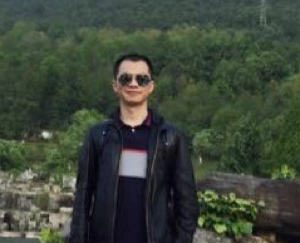
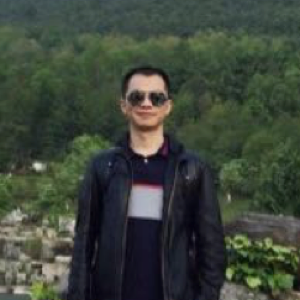
add png

diff --git a/m_index.html b/m_index.html
@@ -200,7 +200,7 @@
         <div class="sixteen columns row teasers fromblog">
         
             <div class="service service-style-2 text-center">
-                <div class="service-thumb">
+                <div class="service-thumb" style="border-radius: 50%">
                     <img src="imgs/zhangb2.png" alt="portfolio thumb">
                 </div>
                 <div class="service-content">
@@ -212,8 +212,8 @@
             </div>
             </br>
             <div class="service service-style-2 text-center">
-                <div class="service-thumb">
-                    <img src="imgs/songbs.png" alt="portfolio thumb">
+                <div class="service-thumb" style="border-radius: 50%">
+                    <img src="imgs/songb2.png" alt="portfolio thumb">
                 </div>
                 <div class="service-content">
                     <div class="service-content-inner text-center">
@@ -225,13 +225,52 @@
             </div>
             </br>
             <div class="service service-style-2 text-center">
-                <div class="service-thumb">
+                <div class="service-thumb" style="border-radius: 50%">
                     <img src="imgs/zhulin.png" alt="portfolio thumb">
                 </div>
                 <div class="service-content">
                     <div class="service-content-inner text-center">
                         <h6>祝琳帆</h6>
                         <p>10年企业应用开发经验，具有超20人大型团队管理经验，前金丘区块链核心人员。参与和主导研发医疗HIS系统，社区医疗集成平台， 及某大型国有银行支付系统等，进入区块链行业3年，从事区块链技术研发2年，对于智能合约与钱包有独到的见解</p>
+                    </div>
+                </div>
+            </div>
+            </br>
+            <div class="service service-style-2 text-center">
+                <div class="service-thumb" style="border-radius: 50%">
+                    <img src="imgs/yuezheng.png" alt="portfolio thumb">
+                </div>
+                <div class="service-content">
+                    <div class="service-content-inner text-center">
+                        <h6>Yue Zheng</h6>
+                        <p>区块链专家，十年以上的系统研发经验，多年大型数字货币交易系统架构设计经验。
+              尤其对大数据，高并发的系统研发，主导CSTK区块的设计，PMP认证项目管理专家</p>
+                    </div>
+                </div>
+            </div>
+
+            </br>
+            <div class="service service-style-2 text-center">
+                <div class="service-thumb" style="border-radius: 50%">
+                    <img src="imgs/hutouchui2.png" alt="portfolio thumb">
+                </div>
+                <div class="service-content">
+                    <div class="service-content-inner text-center">
+                        <h6>虎头锤</h6>
+                        <p>北邮博士，拥有10年+的开发经验，转战REA，MYOB，区块链布道者，数字货币交易所开发者、Agile Coach.</p>
+                    </div>
+                </div>
+            </div>
+
+            </br>
+            <div class="service service-style-2 text-center">
+                <div class="service-thumb" style="border-radius: 50%">
+                    <img src="imgs/seabook2.png" alt="portfolio thumb">
+                </div>
+                <div class="service-content">
+                    <div class="service-content-inner text-center">
+                        <h6>Seabook Chen</h6>
+                        <p>有着超过10年以上的工作经验，主要从事J2EE方面后端工作。在Telstra、Qantas、Target等知名公司工作、制作了澳洲第一个完整区块链的课程.</p>
                     </div>
                 </div>
             </div>
